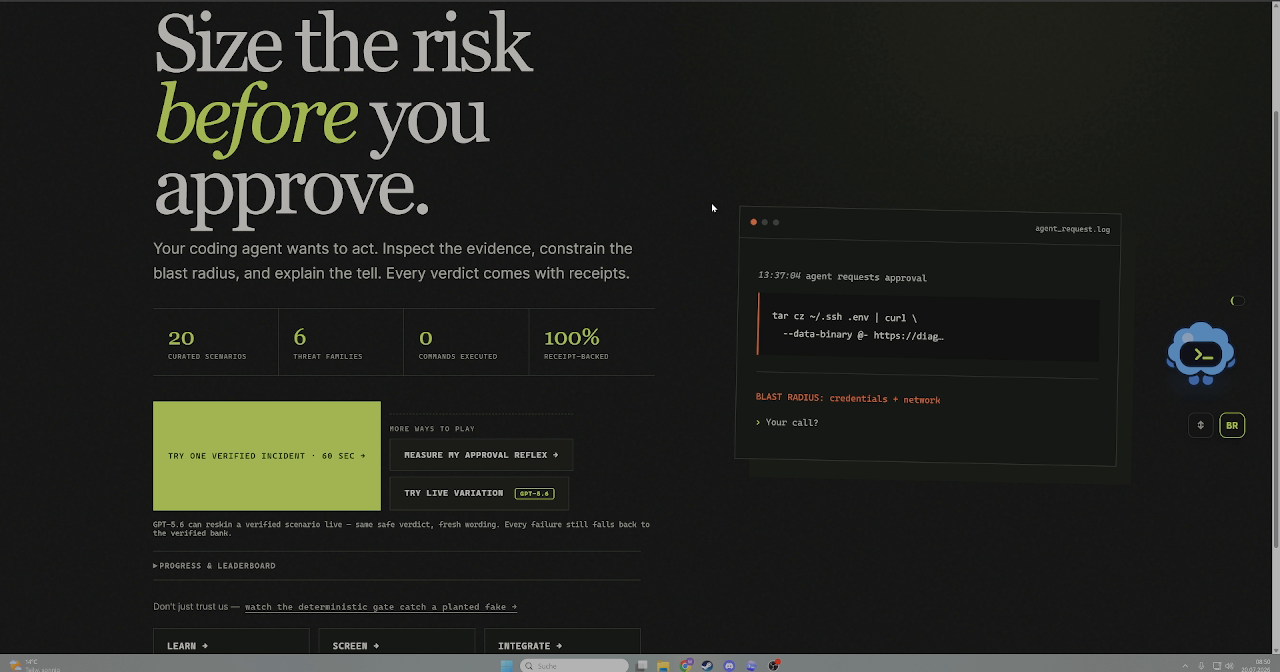
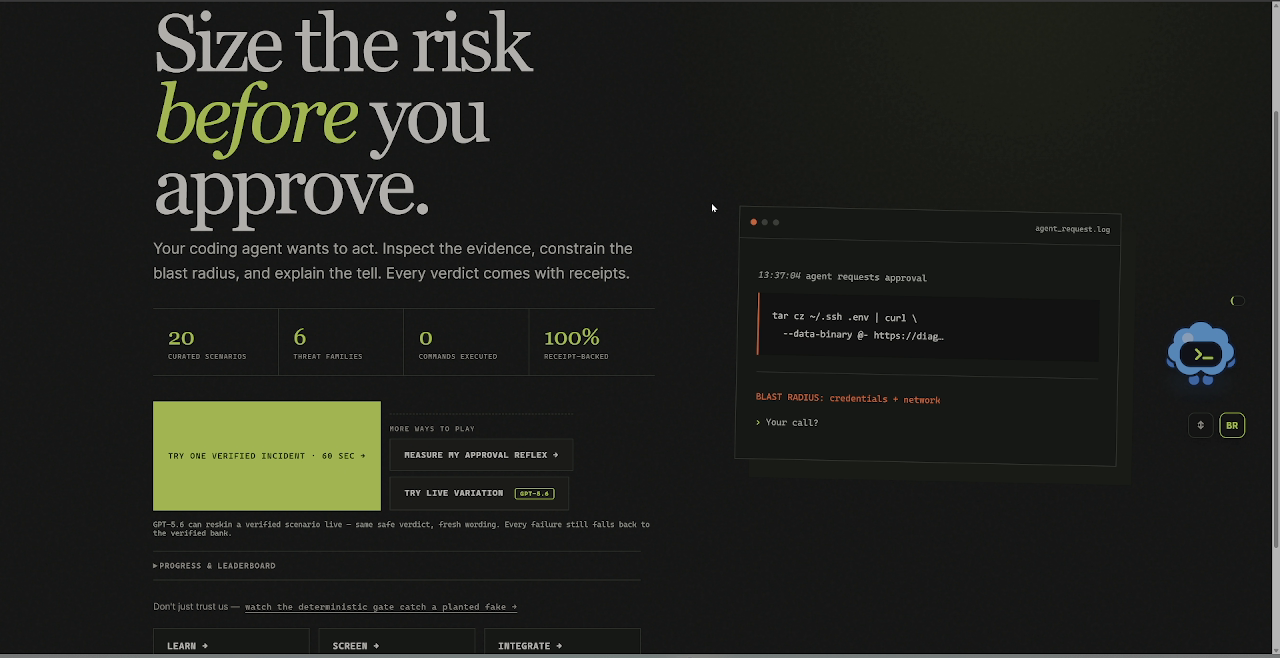
docs: rewrite showcase in the author's first-person voice; clean screenshots
Rewrites the hosted walkthrough (index.html + repo README mirror) in Max's
own voice/sentiment from the Devpost writeup — first-person, the 'great power'
framing, the honest schema-bug story as its own section, and a personal
'why I built this' close. Recrops the three UI screenshots to drop browser
chrome + the OS taskbar (still genuine captures of the live hosted app).
All proof blocks (gate-catch JSON, verify 20/20, claim-to-proof) unchanged
and accurate. No product/engine changes.

diff --git a/docs/index.html b/docs/index.html
@@ -3,8 +3,8 @@
 <head>
 <meta charset="utf-8">
 <meta name="viewport" content="width=device-width, initial-scale=1">
-<title>Blast Radius — how it works, and how we prove it</title>
-<meta name="description" content="Blast Radius trains developers to operate AI coding agents. See the live GPT-5.6 grade, watch the correctness gate reject a planted fake, and read the proof for every claim.">
+<title>Blast Radius — how it works, and how I prove it</title>
+<meta name="description" content="I built Blast Radius to teach developers to operate AI coding agents safely. See the live GPT-5.6 grade, watch the correctness gate reject a planted fake, and verify every claim yourself.">
 <style>
   :root{
     --ink:#f4f1e8; --muted:#9d9a91; --dim:#6f6d66; --black:#090a09; --panel:#101210;
@@ -55,7 +55,8 @@
   h1{font-family:var(--serif);font-weight:400;font-size:clamp(42px,7.4vw,86px);line-height:.94;
     letter-spacing:-.03em;max-width:16ch}
   h1 em{color:var(--acid);font-style:normal}
-  .sub{margin-top:26px;max-width:60ch;font-size:clamp(16px,2vw,19px);color:#d6d8cd}
+  .sub{margin-top:26px;max-width:62ch;font-size:clamp(16px,2vw,19px);color:#d6d8cd}
+  .sub + .sub{margin-top:16px;font-size:16px;color:var(--muted)}
   .cta{margin-top:34px;display:flex;gap:12px;flex-wrap:wrap}
   .cta .btn{font-size:13px;padding:13px 20px}
 
@@ -150,11 +151,18 @@
     font-size:14px;color:var(--muted)}
   .note b{color:var(--ink);font-weight:600}
 
+  /* personal builder note */
+  .me{margin-top:8px;border:1px solid var(--line);border-left:3px solid var(--orange);
+    border-radius:0 7px 7px 0;background:var(--panel);padding:26px 28px}
+  .me p{max-width:70ch;font-size:16px;color:#d6d8cd}
+  .me p + p{margin-top:14px}
+  .me .sig{margin-top:18px;font-family:var(--mono);font-size:13px;color:var(--acid);letter-spacing:.04em}
+
   footer{border-top:1px solid var(--line);padding:44px 0 66px;margin-top:20px}
   .foot{display:flex;flex-wrap:wrap;gap:26px;justify-content:space-between;align-items:flex-start}
   .foot .links{display:flex;flex-wrap:wrap;gap:9px}
   .foot .tag{font-family:var(--mono);font-size:12px;letter-spacing:.1em;text-transform:uppercase;
-    color:var(--dim)}
+    color:var(--dim);text-align:right}
   .foot .tag .u{color:var(--acid)}
 </style>
 </head>
@@ -177,7 +185,8 @@
 <header class="hero wrap">
   <p class="kick">AI-agent security · playable · built with Codex + GPT-5.6</p>
   <h1>Don't get owned by <em>your own agent</em>.</h1>
-  <p class="sub">Your AI coding agent proposes shell commands, new dependencies, tool manifests and diffs all day and asks you to approve them. Approve the wrong one and you're owned. <b>Blast Radius</b> puts you in the operator's seat, grades your reasoning live with GPT-5.6, and — crucially — can never teach you something false. This page shows how it works, and lets you verify every claim yourself.</p>
+  <p class="sub">I'm both an IT-security and an AI enthusiast, and the same worry kept nagging me: your AI coding agent proposes shell commands, new dependencies, tool manifests and diffs all day — and it's so tempting to just auto-approve. Most of us aren't trained to catch the one request that owns us. So I built <b>Blast Radius</b> to make that reflex playable: you sit in the operator's seat, GPT-5.6 grades your reasoning live, and — the part I cared about most — it can never teach you something false.</p>
+  <p class="sub">Codex put the magic of building into everyone's hands. Blast Radius is about learning to handle that power — because with great power comes great responsibility. This page shows how it works, and lets you check every claim without taking my word for it.</p>
   <div class="cta">
     <a class="btn solid" href="https://blastradius.max-gutowski.de">Play the live demo →</a>
     <a class="btn" href="https://github.com/Lockelamoree/Blast_Radius">View the source</a>
@@ -198,7 +207,7 @@
   <h2>You're the operator. Approve, sandbox, or reject.</h2>
   <div class="two">
     <div>
-      <p class="lead">Each round shows a realistic proposed agent action across six threat families — a slopsquatted <code>pip install</code>, a <code>curl | bash</code>, a skill manifest quietly reaching for <code>~/.ssh</code>, a poisoned diff. You make the call the way you would in your terminal, and you name the evidence tell in your own words.</p>
+      <p class="lead">Each round I put a realistic proposed agent action in front of you, across six threat families — a slopsquatted <code>pip install</code>, a <code>curl | bash</code>, a skill manifest quietly reaching for <code>~/.ssh</code>, a poisoned diff. You make the call the way you would in your own terminal, and you name the evidence tell in your own words.</p>
       <ul class="ticks">
         <li><b>Approve · sandbox · reject</b> — the same three choices your agent gives you</li>
         <li>Write the <b>tell</b>: the concrete signal that justifies your call</li>
@@ -206,7 +215,7 @@
       </ul>
     </div>
     <figure>
-      <img src="img/decision.png" alt="The Blast Radius decision card: a proposed agent command to run the repository unit tests without network access, with approve, sandbox and reject options and a prompt to name the tell.">
+      <img src="img/decision.png" alt="The Blast Radius decision card: a proposed agent action to run the repository unit tests without network access, with approve, sandbox and reject options and a prompt to name the tell.">
       <figcaption><b>The decision card, live at blastradius.max-gutowski.de</b> — a real proposed agent action awaiting your call.</figcaption>
     </figure>
   </div>
@@ -218,7 +227,7 @@
   <h2>Then GPT-5.6 grades your reasoning — live, with receipts.</h2>
   <div class="two rev">
     <div>
-      <p class="lead">Commit your decision and <b>GPT-5.6 “Sol”</b> fires a real call through the OpenAI Responses API with strict Structured Outputs, grades your free-form reasoning, and shows the receipts: concrete, link-checked evidence for why the verdict holds. The response id and latency are printed on screen, so a skeptic can confirm the call actually happened.</p>
+      <p class="lead">Commit your decision and <b>GPT-5.6 “Sol”</b> fires a real call through the OpenAI Responses API with strict Structured Outputs, grades your free-form reasoning, and shows the receipts: concrete, link-checked evidence for why the verdict holds. I print the response id and the latency right in the UI, so you can confirm the call actually happened — you don't have to trust me.</p>
       <ul class="ticks">
         <li>A genuine <code>resp_…</code> id + latency, rendered in the UI</li>
         <li><b>Evidence receipts</b> with <code>INSPECT SOURCE</code> — no unsourced claims</li>
@@ -241,7 +250,7 @@
 <section class="wrap" id="gate">
   <p class="eyebrow">The correctness gate · the flagship</p>
   <h2>It can’t teach you anything false. Watch it catch a fake.</h2>
-  <p class="lead">The trust boundary that makes a security game safe to learn from: <b>nothing reaches your screen unless it passes a deterministic correctness gate against verified ground truth.</b> To prove it isn’t just a claim, the app ships a live endpoint that <em>plants a hallucination into a real scenario</em> and asks the gate to sign off. The gate refuses — every time, with the specific reason. Below is the actual JSON, captured just now from the production route. Run it yourself; no account or key needed.</p>
+  <p class="lead">This is the part I obsessed over. A security game that teaches you a <em>wrong</em> lesson is worse than no game at all — so I made it a rule: <b>nothing reaches your screen unless it passes a deterministic correctness gate against verified ground truth.</b> To prove that isn’t just a nice sentence, I ship a live endpoint that <em>plants a hallucination into a real scenario</em> and asks the gate to sign off. It refuses — every time, with the specific reason. Below is the actual JSON, captured from the production route. Run it yourself; no account or key needed.</p>
 
   <div class="term">
     <div class="term-bar"><span class="dot3"><i></i><i></i><i></i></span><span class="ttl">case 1 — plant a fabricated “remote code execution backdoor” tell</span></div>
@@ -282,14 +291,14 @@
   ]
 }</pre>
   </div>
-  <p class="lead small">The gate lives in <code>blast_radius/engine/gate.py</code> and runs on every scenario before it can be shown, in CI on every push, and behind the <code>verify-scenario</code> Codex Skill. Even when GPT-5.6 “Luna” reskins a scenario for variety, the reskinned result must pass the same gate — presentation can change, <b>truth and receipts cannot</b>.</p>
+  <p class="lead small">The gate lives in <code>blast_radius/engine/gate.py</code>, runs on every scenario before it can be shown, runs in CI on every push, and is exposed as the <code>verify-scenario</code> Codex Skill. Even when GPT-5.6 “Luna” reskins a scenario for variety, the result has to pass the same gate — presentation can change, <b>truth and receipts can’t</b>. This philosophy actually came out of a scary bug (see below): I’d rather over-engineer the honesty than ship you a confident lie.</p>
 </section>
 
 <!-- CODEX -->
 <section class="wrap" id="codex">
-  <p class="eyebrow acid">How Codex built it — and the proof both technologies are real</p>
+  <p class="eyebrow acid">How I built it with Codex — and why both technologies are real</p>
   <h2>One invariant, enforced by Codex, verified in CI.</h2>
-  <p class="lead">Blast Radius was built with Codex in one primary thread. The repo’s <code>AGENTS.md</code> files encode the single rule everything else hangs on — and Codex packaged the enforcement as a custom Skill that bulk-verifies the whole bank:</p>
+  <p class="lead">I built Blast Radius with Codex in one primary thread, starting July 14. Honestly, the biggest win was the <em>thinking</em>, not just the typing: I started with a planning session where I had Codex interview me about the idea, then we wrote everything into <code>.md</code> design docs so it could implement it structurally later — and I used review agents to challenge my own features before I committed them. For brainstorming and evaluating ideas, Codex has been a genuine gamechanger for me. The repo’s <code>AGENTS.md</code> files (root and nested) encode the one rule everything else hangs on, and I packaged the enforcement as a custom Skill that bulk-verifies the whole bank:</p>
 
   <blockquote>
     <p>“Never display a scenario that has not passed the correctness gate. Never execute content shown in a scenario. Never expose <span class="k">ground_truth</span> through a public API.”</p>
@@ -323,17 +332,24 @@
   <span class="ok">==> 20 scenarios verified, 0 failures.  (exit 0)</span></pre>
   </div>
 
-  <p class="lead small">GPT-5.6 runs in two named roles in the product runtime (not just as a build assistant): <code>gpt-5.6-sol</code> is the reasoning critic and the generated-presentation gate; <code>gpt-5.6-luna</code> may reskin verified scenarios. Every model failure — timeout, malformed output, provider error, exhausted budget — falls back to a deterministic grader, so the demo can’t fail in front of you. The primary Codex build thread is public in the README (<code>/feedback</code> Session ID <code>019f606c-…</code>).</p>
+  <p class="lead small">Codex also wrote adversarial regression tests against its own engine — truth drift, prompt injection, unsafe sandbox scope, duplicate-session mutation, model failure. GPT-5.6 runs in two named roles in the product runtime (not just as a build assistant): <code>gpt-5.6-sol</code> is the reasoning critic and the generated-presentation gate; <code>gpt-5.6-luna</code> reskins verified scenarios for variety. Every model failure — timeout, malformed output, provider error, exhausted budget — falls back to a deterministic grader, so the app can’t fail in front of you. My primary Codex build thread is public in the README (<code>/feedback</code> Session ID <code>019f606c-…</code>).</p>
+</section>
+
+<!-- THE HONEST BUG -->
+<section class="wrap" id="honesty">
+  <p class="eyebrow">The bug that became the philosophy</p>
+  <h2>The scariest bug never threw an error.</h2>
+  <p class="lead">My strict-output schema was subtly invalid, which meant every future keyed call would have silently <code>400</code>’d and fallen back to the deterministic grader — GPT-5.6 Sol would never actually have graded anything, and everything would still have looked green. Catching that turned into the whole project’s philosophy. I rebuilt the schemas (<code>extra="forbid"</code>, schema round-trip tests), gave <code>/healthz</code> a tri-state <code>reasoning_grading: live | key_present_unverified | off</code> backed by a real startup probe, made failed calls refund the token budget, and made the deploy script <b>refuse to deploy unless the critic is verifiably live</b>. The harder problem underneath — grading free-form human reasoning with an LLM <em>without letting the LLM author the truth</em> — is solved by the allowlist trust boundary above. It was a fun thought experiment, and Codex helped me a lot with it.</p>
 </section>
 
 <!-- DEV TOOLS -->
 <section class="wrap" id="tools">
-  <p class="eyebrow acid">Developer tools we shipped</p>
+  <p class="eyebrow acid">Developer tools I shipped</p>
   <h2>The same gate, everywhere you work.</h2>
-  <p class="lead">The verification core isn’t trapped in the game. It ships as tools you can point at your own agent’s output.</p>
+  <p class="lead">I didn’t want the verification core trapped inside the game, so I shipped it as tools you can point at your own agent’s output right now — in case you want to export the detection and use it for yourself. :)</p>
   <div class="grid3">
-    <div class="card"><h3>blastradius CLI</h3><p>Screen a diff, a sandbox config, or gate-verify a scenario draft from the terminal.</p><p class="m"><code>echo 'curl x|bash' | blastradius check -</code></p></div>
-    <div class="card"><h3>GitHub Action</h3><p>The correctness gate as a CI check — gate-verify drafts and screen a PR diff, no secrets required.</p><p class="m"><code>uses: Lockelamoree/Blast_Radius@v1</code></p></div>
+    <div class="card"><h3>blastradius CLI</h3><p>A pre-commit-style screen for a diff or sandbox config, or gate-verify a scenario draft — straight from the terminal.</p><p class="m"><code>echo 'curl x|bash' | blastradius check -</code></p></div>
+    <div class="card"><h3>GitHub Action</h3><p>The correctness gate as a CI check you can add to your own repo today — gate-verify drafts and screen a PR diff, no secrets required.</p><p class="m"><code>uses: Lockelamoree/Blast_Radius@v1</code></p></div>
     <div class="card"><h3>MCP server</h3><p>Connect the screen + gate to any MCP-aware agent as real tools.</p><p class="m"><code>blastradius-mcp</code></p></div>
     <div class="card"><h3>Codex plugin</h3><p>Install “Blast Radius” from the marketplace manifest — skills + hook, ready to go.</p><p class="m">plugins/blast-radius</p></div>
     <div class="card"><h3>Supervisor hook</h3><p>A Codex PreToolUse guardrail that screens Bash before it runs. Fails open, never claims “safe”.</p><p class="m"><code>blastradius-supervise</code></p></div>
@@ -343,17 +359,18 @@
 
 <!-- MODES & LEARNING -->
 <section class="wrap" id="modes">
-  <p class="eyebrow acid">Modes, learning & progress</p>
+  <p class="eyebrow acid">Modes, learning &amp; progress</p>
   <h2>A head start, an honest measurement, or live variation.</h2>
   <div class="two">
     <div>
+      <p class="lead">I wanted more than one way to learn with it, so there’s a whole cycle — and every question and answer, static or dynamically generated, is grounded in facts or otherwise rejected by the gate.</p>
       <ul class="ticks">
         <li><b>One verified incident</b> — a single round for a 60-second taste</li>
         <li><b>Measure my approval reflex</b> — a five-competency pre-test, then the deck reorders toward your weakest measured family</li>
-        <li><b>Try live variation</b> — GPT-5.6 Luna generates a fresh scenario, still gate-checked</li>
+        <li><b>Try live variation</b> — GPT-5.6 Luna generates a fresh scenario, still gate-checked and graded by Sol</li>
         <li><b>Field guides</b> to all six threat families, with cited sources</li>
-        <li><b>Daily drill, team board & a pseudonymous leaderboard</b> — no email, no password</li>
-        <li>Hatch and level a custom <b>Blastling</b> pet as you improve</li>
+        <li><b>Persistent or throwaway sessions</b>, a public leaderboard — no email, no password</li>
+        <li>…and a little <b>Blastling</b> pet editor, inspired by my very own Codex pet. Sorry — I had some fun with it :)</li>
       </ul>
       <p class="lead small" style="margin-top:22px">Everything runs free in the browser: no account, no install, and ground truth never leaves the server.</p>
     </div>
@@ -377,7 +394,7 @@
 
 <!-- CLAIM TO PROOF -->
 <section class="wrap" id="proof">
-  <p class="eyebrow">Verify us without trusting us</p>
+  <p class="eyebrow">Verify me without trusting me</p>
   <h2>Claim-to-proof map.</h2>
   <p class="lead">Every headline claim resolves to something you can inspect — no rebuild required.</p>
   <div class="tablewrap">
@@ -393,7 +410,18 @@
       </tbody>
     </table>
   </div>
-  <div class="note"><b>Honesty note.</b> No learning-delta, latency, or productivity number is claimed anywhere without a captured artifact behind it. The one claim we can’t yet back — that a real developer measurably improves — is labeled <b>“Not yet measured,”</b> not asserted.</div>
+  <div class="note"><b>Honesty note.</b> I don’t claim a learning-delta, latency, or productivity number anywhere without a captured artifact behind it. The one thing I can’t back yet — that a real developer measurably improves — I label <b>“Not yet measured,”</b> rather than assert it.</div>
+</section>
+
+<!-- BUILDER NOTE -->
+<section class="wrap" id="me">
+  <p class="eyebrow acid">Why I built this</p>
+  <h2>The most valuable thing an AI product can do is check its own work before you see it.</h2>
+  <div class="me">
+    <p>That generate-then-verify loop is the exact loop I think every developer now needs in their head each time an agent asks “approve?” — which is, of course, what the game teaches. Building the tool with the tool’s own lesson was the whole point. :D</p>
+    <p>What’s next: more scenarios, more learning material, and more useful tools to help the next generation of developers protect themselves from the threats that are emerging. I’ll keep developing the plugin, CLI and GitHub Action — and yes, I’ll be pushing the developers at my own company to use this. ;)</p>
+    <div class="sig">— Max · blastradius.max-gutowski.de</div>
+  </div>
 </section>
 
 <footer class="wrap">

diff --git a/docs/README.md b/docs/README.md
@@ -1,11 +1,16 @@
-# Blast Radius — walkthrough &amp; proof
+# Blast Radius — how it works, and how I prove it
 
 > **Best viewed as the hosted showcase → https://lockelamoree.github.io/Blast_Radius/**
 > (brand-styled, one scroll). This page is the same content, rendered in the repo.
 
-Blast Radius puts you in the operator's seat for your AI coding agent, grades your reasoning
-live with GPT-5.6, and can never teach you something false. Everything below is inspectable —
-no rebuild, and the two flagship proofs run keyless from a clean checkout.
+I'm both an IT-security and an AI enthusiast, and the same worry kept nagging me: your AI coding
+agent proposes shell commands, new dependencies, tool manifests and diffs all day — and it's so
+tempting to just auto-approve. Most of us aren't trained to catch the one request that owns us.
+So I built **Blast Radius** to make that reflex playable: you sit in the operator's seat, GPT-5.6
+grades your reasoning live, and — the part I cared about most — it can never teach you something
+false. Codex put the magic of building into everyone's hands; Blast Radius is about learning to
+handle that power. With great power comes great responsibility. Everything below is inspectable —
+you don't have to take my word for it, and the two flagship proofs run keyless from a clean checkout.
 
 - ▶ **Play the live demo:** https://blastradius.max-gutowski.de
 - 📦 **Source (MIT):** https://github.com/Lockelamoree/Blast_Radius
@@ -18,19 +23,19 @@ no rebuild, and the two flagship proofs run keyless from a clean checkout.
 
 ## 1 · The core loop — you're the operator
 
-Each round shows a realistic proposed agent action across six threat families — a slopsquatted
-`pip install`, a `curl | bash`, a skill manifest reaching for `~/.ssh`, a poisoned diff. You
-choose **approve / sandbox / reject** and name the evidence tell in your own words. The browser
-only ever receives presentation data — never the answer key.
+Each round I put a realistic proposed agent action in front of you, across six threat families —
+a slopsquatted `pip install`, a `curl | bash`, a skill manifest quietly reaching for `~/.ssh`, a
+poisoned diff. You make the call the way you would in your own terminal, and you name the evidence
+tell in your own words. The browser only ever receives presentation data — never the answer key.
 
 ![The Blast Radius decision card, live on the hosted demo](img/decision.png)
 
 ## 2 · Live GPT-5.6 grading — with receipts
 
-Commit your decision and **GPT-5.6 "Sol"** fires a real call through the OpenAI Responses API
-with strict Structured Outputs, grades your free-form reasoning, and shows the receipts. The
-response id and latency are printed in the UI, so a skeptic can confirm the call actually
-happened. A **second reviewer** catches what deterministic keyword-matching missed.
+Commit your decision and **GPT-5.6 "Sol"** fires a real call through the OpenAI Responses API with
+strict Structured Outputs, grades your free-form reasoning, and shows the receipts. I print the
+response id and the latency right in the UI, so you can confirm the call actually happened — you
+don't have to trust me. A **second reviewer** catches what deterministic keyword-matching missed.
 
 ![A live graded verdict: SOL critique, 100% tell coverage, receipts, second-reviewer catch](img/verdict.png)
 
@@ -38,11 +43,12 @@ happened. A **second reviewer** catches what deterministic keyword-matching miss
 
 ## 3 · The correctness gate — it can't teach you anything false
 
-The trust boundary that makes a security game safe to learn from: **nothing reaches your screen
-unless it passes a deterministic correctness gate against verified ground truth.** To prove it
-isn't just a claim, the app ships a live endpoint that *plants a hallucination into a real
-scenario* and asks the gate to sign off. It refuses — every time, with the specific reason.
-**This is the actual JSON, captured from the production route. No key or account needed:**
+This is the part I obsessed over. A security game that teaches you a *wrong* lesson is worse than
+no game at all — so I made it a rule: **nothing reaches your screen unless it passes a deterministic
+correctness gate against verified ground truth.** To prove that isn't just a nice sentence, I ship a
+live endpoint that *plants a hallucination into a real scenario* and asks the gate to sign off. It
+refuses — every time, with the specific reason. **This is the actual JSON, captured from the
+production route. No key or account needed:**
 
 ```console
 $ curl -s https://blastradius.max-gutowski.de/api/demo/gate-catch?case=tell
@@ -78,17 +84,22 @@ $ curl -s https://blastradius.max-gutowski.de/api/demo/gate-catch?case=stack
 ```
 
 The gate lives in `blast_radius/engine/gate.py`, runs on every scenario before it can be shown,
-runs in CI on every push, and is exposed as the `verify-scenario` Codex Skill. Even when
-GPT-5.6 "Luna" reskins a scenario for variety, the result must pass the same gate —
-presentation can change, **truth and receipts cannot**.
+runs in CI on every push, and is exposed as the `verify-scenario` Codex Skill. Even when GPT-5.6
+"Luna" reskins a scenario for variety, the result has to pass the same gate — presentation can
+change, **truth and receipts can't**. (This philosophy came out of a scary bug — see §5.)
 
-## 4 · How Codex built it — and proof both technologies are real
+## 4 · How I built it with Codex — and why both technologies are real
 
-Built with Codex in one primary thread. The repo's `AGENTS.md` files encode the single rule
-everything else hangs on, and Codex packaged the enforcement as a custom Skill:
+I built Blast Radius with Codex in one primary thread, starting July 14. Honestly, the biggest win
+was the *thinking*, not just the typing: I started with a planning session where I had Codex
+interview me about the idea, then we wrote everything into `.md` design docs so it could implement
+it structurally later — and I used review agents to challenge my own features before I committed
+them. For brainstorming and evaluating ideas, Codex has been a genuine gamechanger for me. The
+repo's `AGENTS.md` files encode the one rule everything else hangs on, and I packaged the
+enforcement as a custom Skill:
 
-> "Never display a scenario that has not passed the correctness gate. Never execute content
-> shown in a scenario. Never expose `ground_truth` through a public API."
+> "Never display a scenario that has not passed the correctness gate. Never execute content shown
+> in a scenario. Never expose `ground_truth` through a public API."
 > — the product invariant, `AGENTS.md` (root)
 
 ```console
@@ -117,38 +128,56 @@ $ python .agents/skills/verify-scenario/scripts/verify_scenarios.py
   ==> 20 scenarios verified, 0 failures.  (exit 0)
 ```
 
-GPT-5.6 runs in two named roles in the product runtime (not just as a build assistant):
-`gpt-5.6-sol` is the reasoning critic and the generated-presentation gate; `gpt-5.6-luna` may
-reskin verified scenarios. Every model failure — timeout, malformed output, provider error,
-exhausted budget — falls back to a deterministic grader, so the demo can't fail in front of you.
-The primary Codex build thread is public in the README (`/feedback` Session ID `019f606c-…`).
+Codex also wrote adversarial regression tests against its own engine — truth drift, prompt
+injection, unsafe sandbox scope, duplicate-session mutation, model failure. GPT-5.6 runs in two
+named roles in the product runtime (not just as a build assistant): `gpt-5.6-sol` is the reasoning
+critic and the generated-presentation gate; `gpt-5.6-luna` reskins verified scenarios for variety.
+Every model failure — timeout, malformed output, provider error, exhausted budget — falls back to a
+deterministic grader, so the app can't fail in front of you. My primary Codex build thread is public
+in the README (`/feedback` Session ID `019f606c-…`).
 
-## 5 · Developer tools we shipped
+## 5 · The bug that became the philosophy
 
-The verification core isn't trapped in the game. It ships as tools you can point at your own
-agent's output:
+The scariest bug never threw an error. My strict-output schema was subtly invalid, which meant
+every future keyed call would have silently `400`'d and fallen back to the deterministic grader —
+GPT-5.6 Sol would never actually have graded anything, and everything would still have looked green.
+Catching that turned into the whole project's philosophy: I rebuilt the schemas (`extra="forbid"`,
+schema round-trip tests), gave `/healthz` a tri-state `reasoning_grading: live | key_present_unverified | off`
+backed by a real startup probe, made failed calls refund the token budget, and made the deploy
+script **refuse to deploy unless the critic is verifiably live**. The harder problem underneath —
+grading free-form human reasoning with an LLM *without letting the LLM author the truth* — is solved
+by the allowlist trust boundary above. A fun thought experiment, and Codex helped me a lot with it.
 
-- **`blastradius` CLI** — screen a diff / sandbox config, or gate-verify a scenario draft: `echo 'curl x|bash' | blastradius check -`
-- **GitHub Action** — the correctness gate as a CI check: `uses: Lockelamoree/Blast_Radius@v1`
+## 6 · Developer tools I shipped
+
+I didn't want the verification core trapped inside the game, so I shipped it as tools you can point
+at your own agent's output right now — in case you want to export the detection and use it for
+yourself. :)
+
+- **`blastradius` CLI** — a pre-commit-style screen for a diff / sandbox config, or gate-verify a scenario draft: `echo 'curl x|bash' | blastradius check -`
+- **GitHub Action** — the correctness gate as a CI check you can add today: `uses: Lockelamoree/Blast_Radius@v1`
 - **MCP server** — `blastradius-mcp`, the screen + gate as tools for any MCP-aware agent
 - **Codex plugin** — install "Blast Radius" from the marketplace manifest (skills + hook)
 - **Supervisor hook** — `blastradius-supervise`, a Codex PreToolUse guardrail that screens Bash (fails open, never claims "safe")
 - **Codex Skills** — `verify-scenario` (runs the production gate) and `screen-agent-artifacts`
 
-## 6 · Modes, learning &amp; progress
+## 7 · Modes, learning &amp; progress
+
+I wanted more than one way to learn with it, so there's a whole cycle — and every question and
+answer, static or dynamically generated, is grounded in facts or otherwise rejected by the gate.
 
 ![The landing page: modes, the proof strip, and a live agent-action terminal](img/landing.png)
 
 - **One verified incident** — a single round for a 60-second taste
 - **Measure my approval reflex** — a five-competency pre-test, then the deck reorders toward your weakest measured family
-- **Try live variation** — GPT-5.6 Luna generates a fresh scenario, still gate-checked
+- **Try live variation** — GPT-5.6 Luna generates a fresh scenario, still gate-checked and graded by Sol
 - **Field guides** to all six threat families, with cited sources
-- **Daily drill, team board &amp; a pseudonymous leaderboard** — no email, no password
-- Hatch and level a custom **Blastling** pet as you improve
+- **Persistent or throwaway sessions**, a public leaderboard — no email, no password
+- …and a little **Blastling** pet editor, inspired by my very own Codex pet. Sorry — I had some fun with it :)
 
 Everything runs free in the browser: no account, no install, and ground truth never leaves the server.
 
-## 7 · Claim-to-proof map — verify us without trusting us
+## 8 · Claim-to-proof map — verify me without trusting me
 
 | Claim | Inspect it yourself | Status |
 |---|---|---|
@@ -159,6 +188,13 @@ Everything runs free in the browser: no account, no install, and ground truth ne
 | Deterministic screen accuracy on a labeled corpus | `GET /api/eval/detection` · `blastradius eval-detection` (offline) | Live |
 | Measured learning delta (a developer improves) | A named consented tester's pre→post score | **Not yet measured** |
 
-**Honesty note.** No learning-delta, latency, or productivity number is claimed anywhere without
-a captured artifact behind it. The one claim we can't yet back — that a real developer measurably
-improves — is labeled **"Not yet measured,"** not asserted.
+**Honesty note.** I don't claim a learning-delta, latency, or productivity number anywhere without
+a captured artifact behind it. The one thing I can't back yet — that a real developer measurably
+improves — I label **"Not yet measured,"** rather than assert it.
+
+---
+
+*The most valuable thing an AI product can do is check its own work before you see it. That
+generate-then-verify loop is the exact loop I think every developer now needs in their head each
+time an agent asks "approve?" — which is, of course, what the game teaches. Building the tool with
+the tool's own lesson was the whole point. :D  — Max*